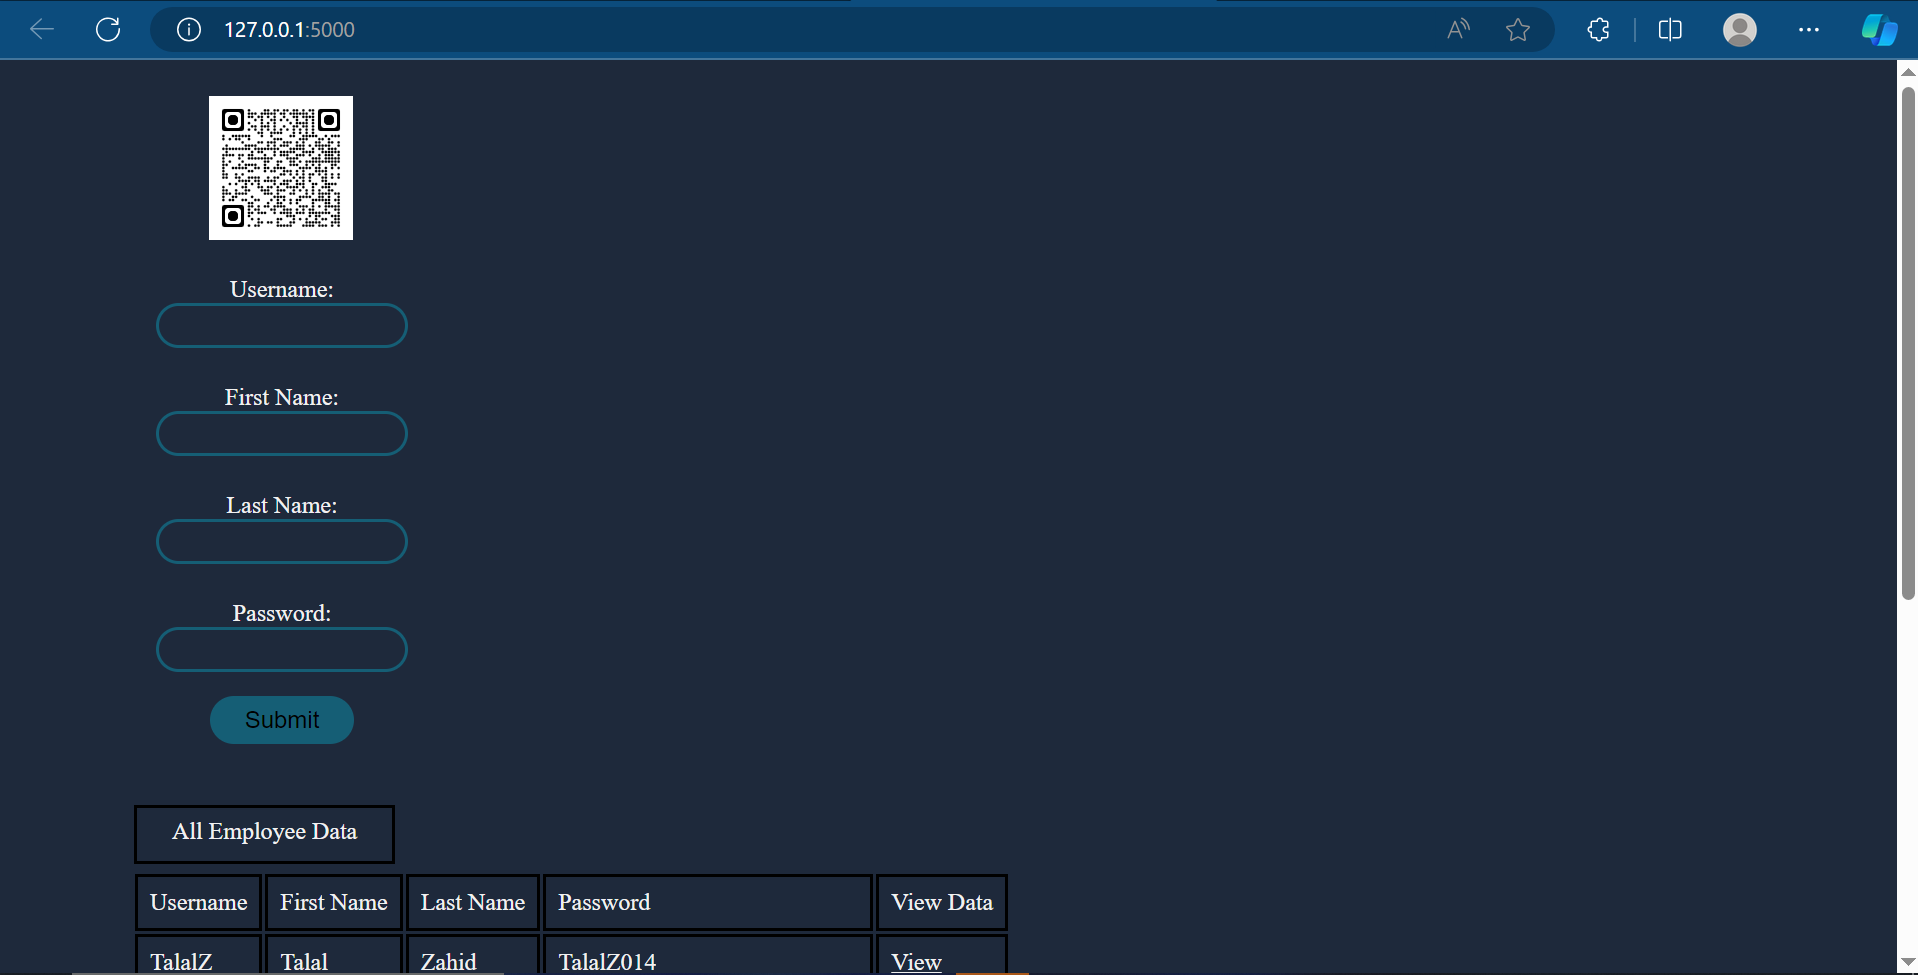
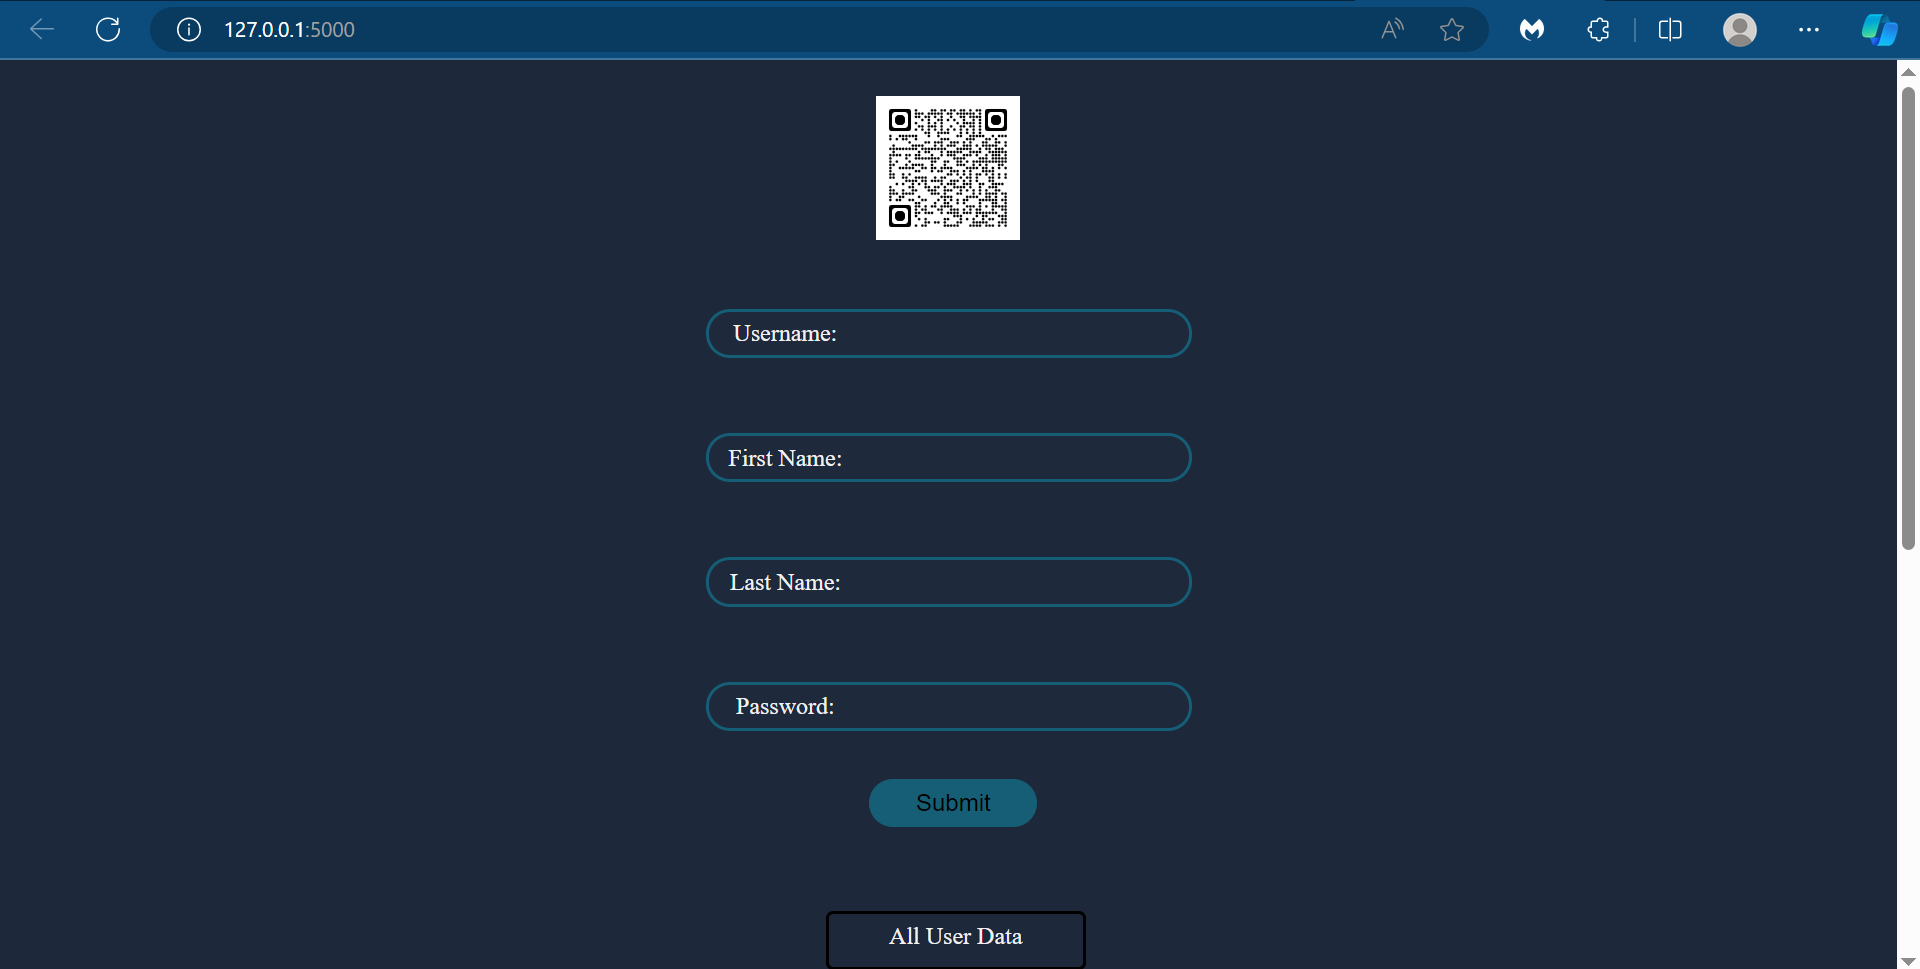
"centered everything"

diff --git a/templates/index.html b/templates/index.html
@@ -30,7 +30,6 @@ form{
   align-items: center; 
   justify-content: center;
 }
-
 body{
 	background-color: hsl(217, 33%, 17%);
 	color: #f1f1f1;
@@ -47,9 +46,9 @@ body{
   height: 1.5rem;
   width: 17.7rem;
 }
-input.click{
-  border: 2px solid #155e75;
-}
+/* .input>input::{
+  border: transparent;
+} */
 label{
   margin:none;
   position: relative;

diff --git a/templates/view_user.html b/templates/view_user.html
@@ -26,6 +26,7 @@ td{
   position: relative;
 	margin: 1rem;
 	border: 2.5px solid black;
+  border-radius: 0.3rem;
 	padding: 1rem;
   top: 8rem;
   text-align: center;
@@ -55,6 +56,7 @@ a{
   align-items: center;
   position: relative;
   border: 2.5px solid black;
+  border-radius: 0.3rem;
   width: 12.6rem;
   height: 1.5rem;
   padding: 0.3rem;

diff --git a/ReadMe.Md b/ReadMe.Md
@@ -1,3 +1,3 @@
-![Alt text](./form.png)
 ![Alt text](./view1.png)
 ![Alt text](./view2.png)
+![Alt text](./view3.png)
